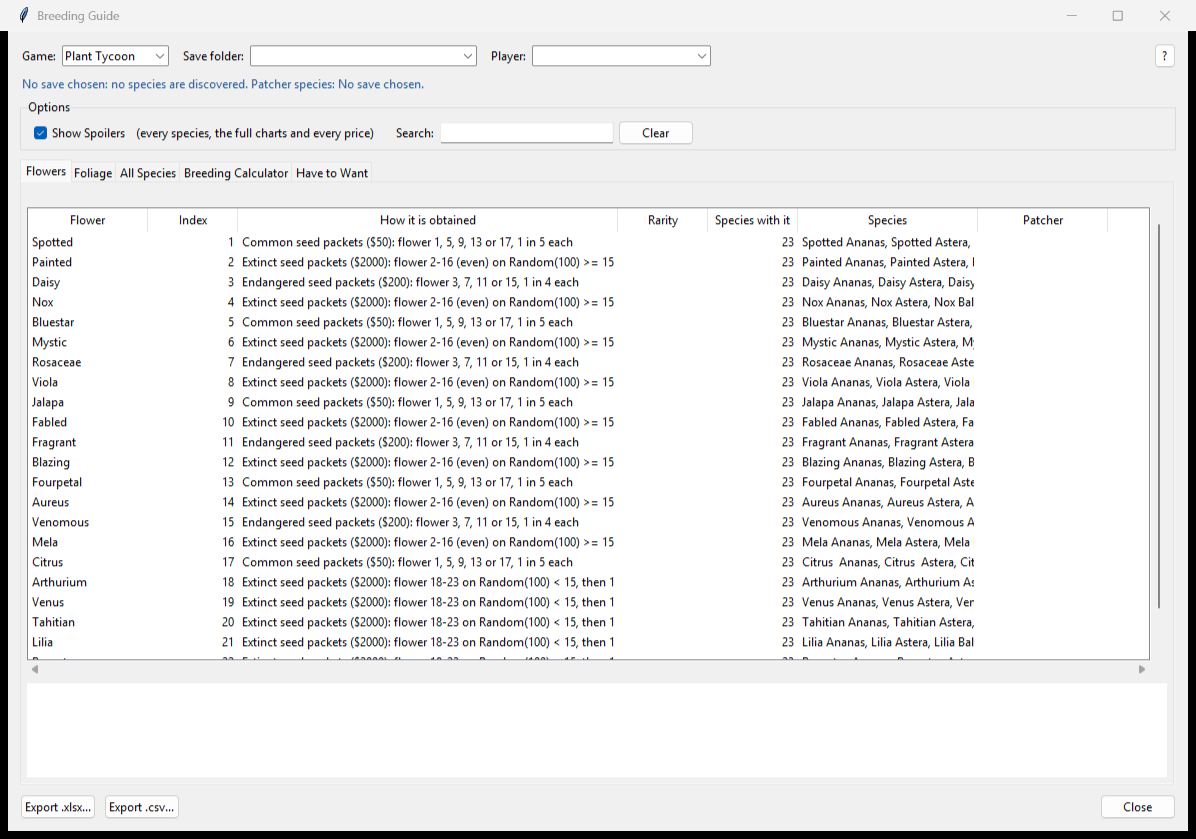
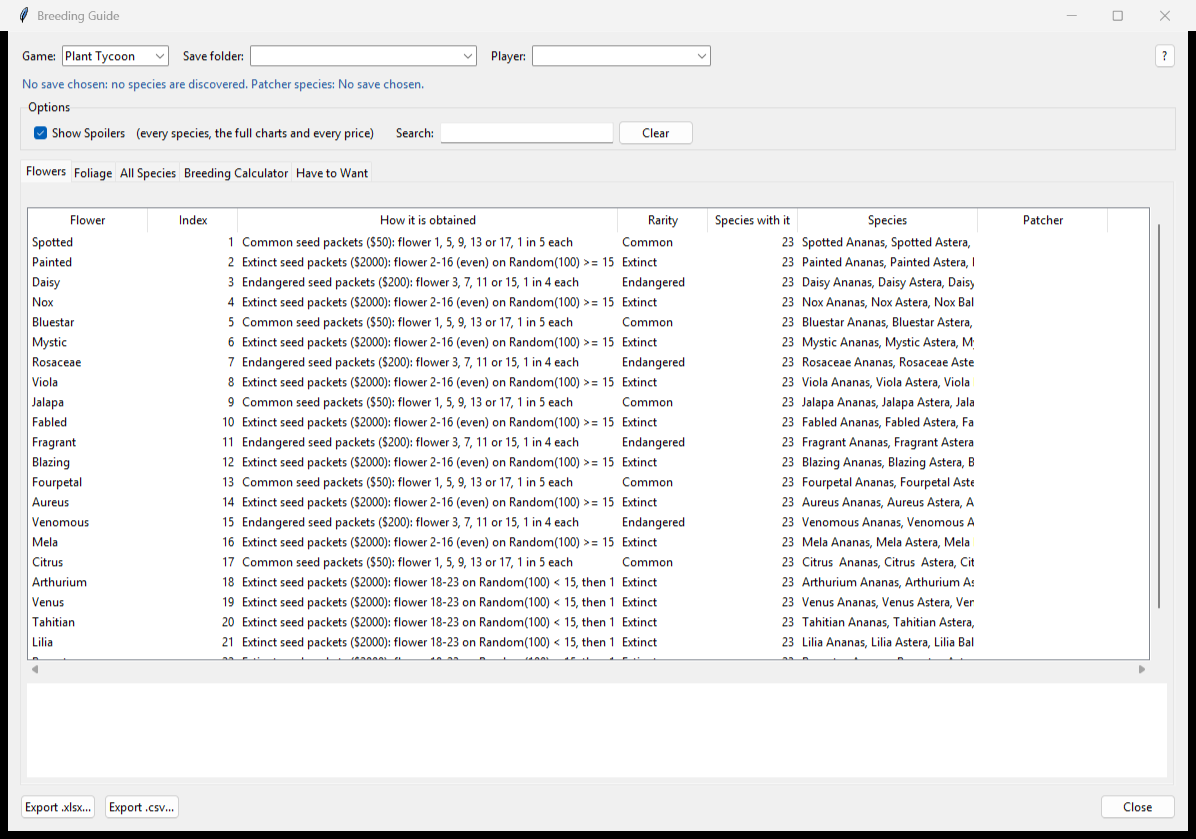
Breeding Guide: Plant parts' rarity from the shop's seed packets (0x41DC60)
Common 1, 5, 9, 13, 17; Endangered 3, 7, 11, 15; Extinct the rest of 2-23;
the new flowers are the patcher's. Test added; Plant pictures re-rendered.

Changed region(s): [[0.5259, 0.2789, 0.5878, 0.7747]]

diff --git a/tests/test_breeding_plant.py b/tests/test_breeding_plant.py
@@ -49,6 +49,17 @@ class ModelTests(unittest.TestCase):
         self.stock = B.load(None, extras=False)
         self.extras = B.load(None, extras=True)
 
+    def test_part_rarity_is_the_shop_packet_tier(self) -> None:
+        """0x41DC60's packets: Common 1, 5, 9, 13, 17; Endangered 3, 7, 11, 15; Extinct the
+        even genes 2-16 and 18-23; the new flowers (24-37) are the patcher's."""
+        expected = {**{g: "Common" for g in (1, 5, 9, 13, 17)}, **{g: "Endangered" for g in (3, 7, 11, 15)},
+                    **{g: "Extinct" for g in (2, 4, 6, 8, 10, 12, 14, 16, 18, 19, 20, 21, 22, 23)}}
+        for kind in ("foliage", "flower"):
+            for part in self.extras.parts(kind):
+                want = "Patcher" if kind == "flower" and part.index >= 24 else expected[part.index]
+                self.assertEqual(self.extras.part_rarity(part), want, (kind, part.index))
+        self.assertEqual(sum(self.extras.part_rarity(p) == "Patcher" for p in self.extras.parts("flower")), 14)
+
     def test_extras_adds_the_322_new_species_only_when_on(self) -> None:
         self.assertEqual(len(self.stock.species()), 529)
         self.assertEqual(len(self.extras.species()), 851)

diff --git a/src/breeding_plant.py b/src/breeding_plant.py
@@ -135,6 +135,18 @@ def is_new_flower(flower: int) -> bool:
     return 24 <= flower <= 37
 
 
+def part_rarity(gene: int, kind: str) -> str:
+    """A part's rarity: the shop seed packet tier that lays it (0x41DC60); the new flowers
+    are the patcher's (Unused Flowers)."""
+    if kind == "flower" and is_new_flower(gene):
+        return "Patcher"
+    if gene in COMMON_GENES:
+        return "Common"
+    if gene in ENDANGERED_GENES:
+        return "Endangered"
+    return "Extinct"
+
+
 def rarity(key: tuple[int, int]) -> str:
     """The game's class A-D (0x424100, 0x42CAA6, 0x41DD54)."""
     foliage, flower = key
@@ -297,6 +309,9 @@ class PlantModel:
         self._keys = sorted(self._species)
 
     # ------------------------------------------------------------ parts and species
+    def part_rarity(self, part: Part) -> str:
+        return part_rarity(part.index, part.kind)
+
     def parts(self, kind: str) -> list[Part]:
         if kind == "foliage":
             return list(self._foliage_parts.values())
